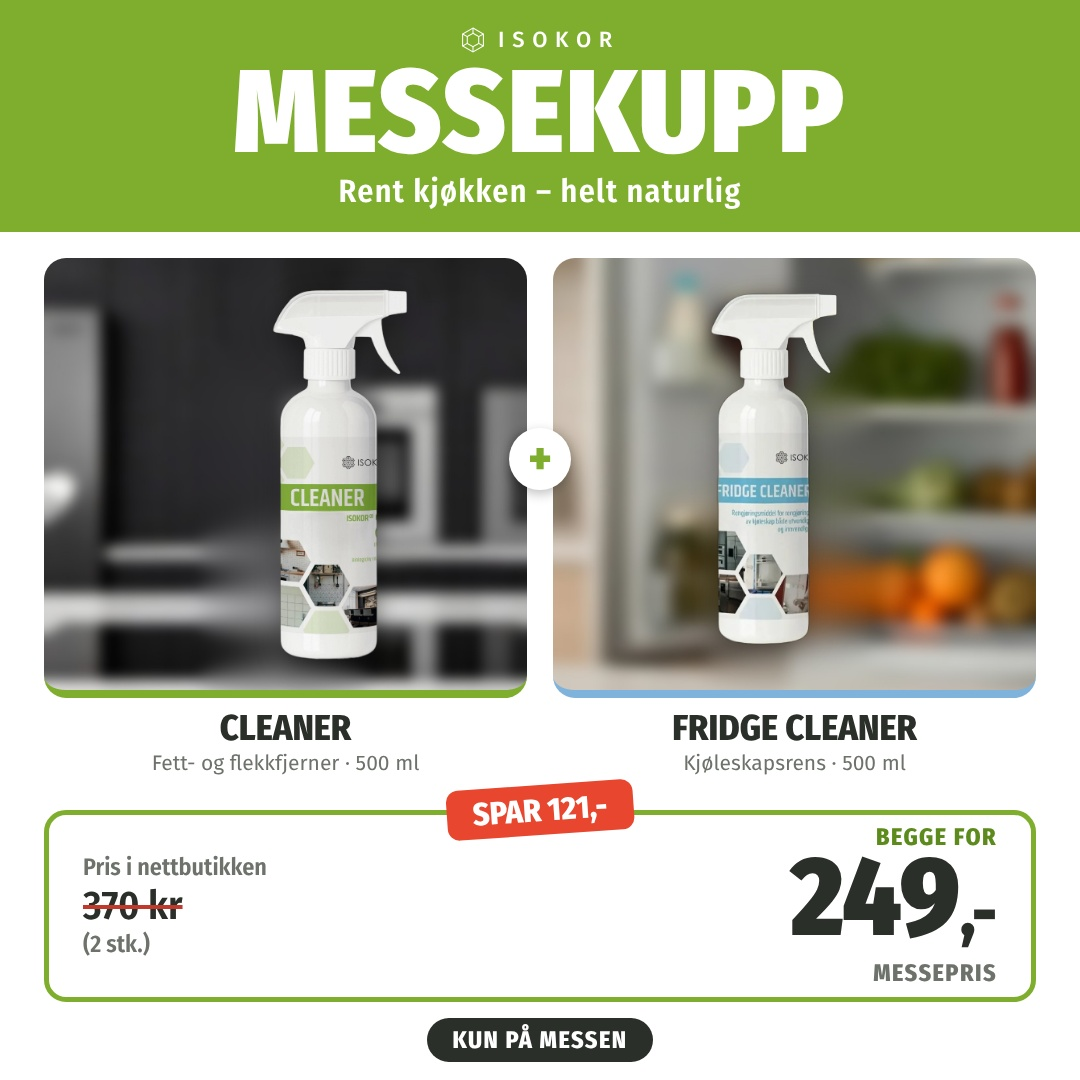
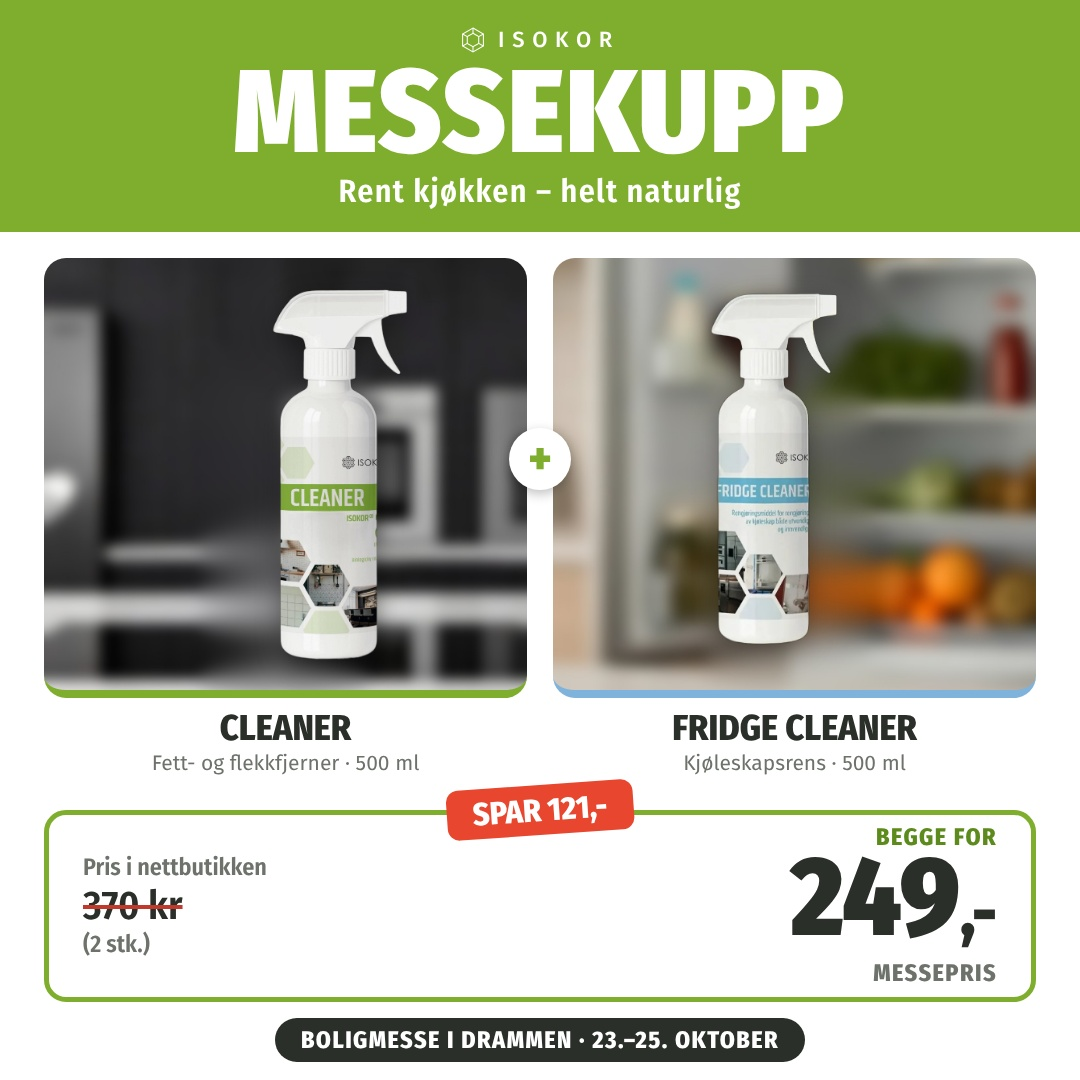
Boligmesse Drammen 23.–25. 10.: dátum a miesto v grafikách, draft textu príspevku, AKTUALNE
Claude-Session: https://claude.ai/code/session_01K9FkUrWEKD7BscBerzF8Bn

Changed region(s): [[0.2444, 0.9167, 0.7639, 1.0]]

diff --git a/02_PRACA/messe/social_9x16.html b/02_PRACA/messe/social_9x16.html
@@ -9,7 +9,7 @@ body{width:1080px;height:1920px}
 .old{font-size:30px}.old s{font-size:50px}
 .new .lbl{font-size:30px}.new .amt{font-size:150px}.new .amt span{font-size:88px}.ms{margin-top:18px}
 .save{top:-40px;font-size:40px;padding:8px 32px}
-.foot{text-align:center;margin-top:44px}
+.foot{text-align:center;margin-top:40px}
 .eco{font-size:34px}
 .only{font-size:36px;padding:12px 40px;margin-top:22px}
 .web{font-size:26px;margin-top:18px}
@@ -17,5 +17,5 @@ body{width:1080px;height:1920px}
 <div class="top"><div class="logo"><svg width="32" height="32" viewBox="0 0 100 100" fill="none" stroke="#fff" stroke-width="4"><polygon points="50,4 90,27 90,73 50,96 10,73 10,27"/><polygon points="50,24 72,37 72,63 50,76 28,63 28,37"/><path d="M50 4V24M90 27 72 37M90 73 72 63M50 96V76M10 73 28 63M10 27 28 37"/></svg>ISOKOR</div><h1>MESSEKUPP</h1><p>Rent kjøkken – helt naturlig</p></div>
 <div class="prods"><div class="prod"><div class="card c1" style="background:url(bg_kitchen.jpg) center/cover;border-bottom:10px solid var(--green)"><img class="i1" src="cleaner_cut3.png" alt="Isokor Cleaner"></div><div class="name">CLEANER</div><div class="no">Fett- og flekkfjerner · 500 ml</div></div><div class="plus">+</div><div class="prod"><div class="card c2" style="background:url(bg_fridge.jpg) center/cover;border-bottom:10px solid var(--blue)"><img class="i2" src="fridge_cut.png" alt="Isokor Fridge Cleaner"></div><div class="name">FRIDGE CLEANER</div><div class="no">Kjøleskapsrens · 500 ml</div></div></div>
 <div class="price"><div class="save">SPAR 121,-</div><div class="old">Pris i nettbutikken<br><s>370 kr</s><br>(2 stk.)</div><div class="new"><div class="lbl">BEGGE FOR</div><div class="amt">249<span>,-</span></div><div class="lbl ms" style="color:var(--grey)">MESSEPRIS</div></div></div>
-<div class="foot"><div class="eco">Økologisk · Naturlig · Biologisk nedbrytbar</div><div class="only">KUN PÅ MESSEN</div><div class="web">ISOKOR-SKANDINAVIA.NO</div></div>
+<div class="foot"><div class="eco">Økologisk · Naturlig · Biologisk nedbrytbar</div><div class="only">KUN PÅ MESSEN</div><div class="eco" style="color:var(--ink);font-weight:800;font-size:40px;margin-top:22px">Boligmesse i Drammen · 23.–25. oktober</div></div>
 </body></html>

diff --git a/02_PRACA/messe/social_1x1.html b/02_PRACA/messe/social_1x1.html
@@ -15,5 +15,5 @@ body{width:1080px;height:1080px}
 <div class="top"><div class="logo"><svg width="26" height="26" viewBox="0 0 100 100" fill="none" stroke="#fff" stroke-width="4"><polygon points="50,4 90,27 90,73 50,96 10,73 10,27"/><polygon points="50,24 72,37 72,63 50,76 28,63 28,37"/><path d="M50 4V24M90 27 72 37M90 73 72 63M50 96V76M10 73 28 63M10 27 28 37"/></svg>ISOKOR</div><h1>MESSEKUPP</h1><p>Rent kjøkken – helt naturlig</p></div>
 <div class="prods"><div class="prod"><div class="card c1" style="background:url(bg_kitchen.jpg) center/cover;border-bottom:8px solid var(--green)"><img class="i1" src="cleaner_cut3.png" alt="Isokor Cleaner"></div><div class="name">CLEANER</div><div class="no">Fett- og flekkfjerner · 500 ml</div></div><div class="plus">+</div><div class="prod"><div class="card c2" style="background:url(bg_fridge.jpg) center/cover;border-bottom:8px solid var(--blue)"><img class="i2" src="fridge_cut.png" alt="Isokor Fridge Cleaner"></div><div class="name">FRIDGE CLEANER</div><div class="no">Kjøleskapsrens · 500 ml</div></div></div>
 <div class="price"><div class="save">SPAR 121,-</div><div class="old">Pris i nettbutikken<br><s>370 kr</s><br>(2 stk.)</div><div class="new"><div class="lbl">BEGGE FOR</div><div class="amt">249<span>,-</span></div><div class="lbl ms" style="color:var(--grey)">MESSEPRIS</div></div></div>
-<div class="foot"><span class="only">KUN PÅ MESSEN</span></div>
+<div class="foot"><span class="only">BOLIGMESSE I DRAMMEN · 23.–25. OKTOBER</span></div>
 </body></html>

diff --git a/02_PRACA/messe/TEXT_PRISPEVKU.md b/02_PRACA/messe/TEXT_PRISPEVKU.md
@@ -1,0 +1,22 @@
+# Messekupp — text príspevku (DRAFT, nezverejnené)
+
+*2026-10-21 · zverejňuje Luk ručne, až po vlastnom „áno". Obrázky: `Messekupp_Instagram_1x1.jpg` (IG/FB), `Messekupp_TikTok_9x16.jpg` (TikTok/Reels/Stories).*
+*Messe: Drammen, pi 23. – ne 25. 10. 2026. Zverejniť najneskôr št 22. 10.*
+
+## Instagram / Facebook
+Messekupp i Drammen! 🌿
+
+Vi står på boligmessen i Drammen 23.–25. oktober – kom innom standen vår!
+
+Kun på messen: Isokor Cleaner (fett- og flekkfjerner) + Fridge Cleaner (kjøleskapsrens) – begge for 249,- (i nettbutikken 370 kr).
+
+✔ Økologisk og naturlig
+✔ Biologisk nedbrytbar
+✔ Trygt for familien – og kjøleskapet
+
+Vi gleder oss til å se deg! 👋
+
+#isokor #boligmesse #drammen #messekupp #miljøvennlig #renhold #grønnvask #kjøkken
+
+## TikTok (kratší)
+Messekupp på boligmessen i Drammen 23.–25. oktober 🌿 Cleaner + Fridge Cleaner – begge for 249,-. Kun på messen! #isokor #drammen #boligmesse #messekupp #rengjøring

diff --git a/09_ODOVZDANIE/AKTUALNE.md b/09_ODOVZDANIE/AKTUALNE.md
@@ -11,6 +11,7 @@
 - Pravidlá pošty v `08_ROZHODNUTIA/2026-10-19_posta_cez_preposielanie_do_gmailu.md`
 
 ## Nedokončené — pokračovať tu
+0. **Boligmesse Drammen pi 23. – ne 25. 10. 2026** — grafika Messekupp hotová (`02_PRACA/messe/`: A4 `Messekupp_A4_v4.pdf` na stôl, `Messekupp_Instagram_1x1.jpg`, `Messekupp_TikTok_9x16.jpg`). Cena 249 kr za Cleaner + Fridge Cleaner, porovnanie 370 kr (rozhodnutie `08_ROZHODNUTIA/2026-10-21_messekupp_cena.md`). Text príspevku (draft) `02_PRACA/messe/TEXT_PRISPEVKU.md` → Luk zverejní sám, **najneskôr št 22. 10.**; vytlačiť A4.
 1. ✅ **Peisglassrens zverejnený** 2026-10-18 23:01 (Luk ručne, test) — overené v Metricoole: FB https://facebook.com/122216737250920172/posts/122216741084920172 · IG https://www.instagram.com/p/DepmmyTCQED/ → o pár dní pozrieť dosah
    - ✅ Prázdny TikTok draft Luk zmazal ručne (overené v Metricoole 18. 10.)
 2. **Web audit — zvyšok** (poradie, na ktorom sme sa dohodli):
